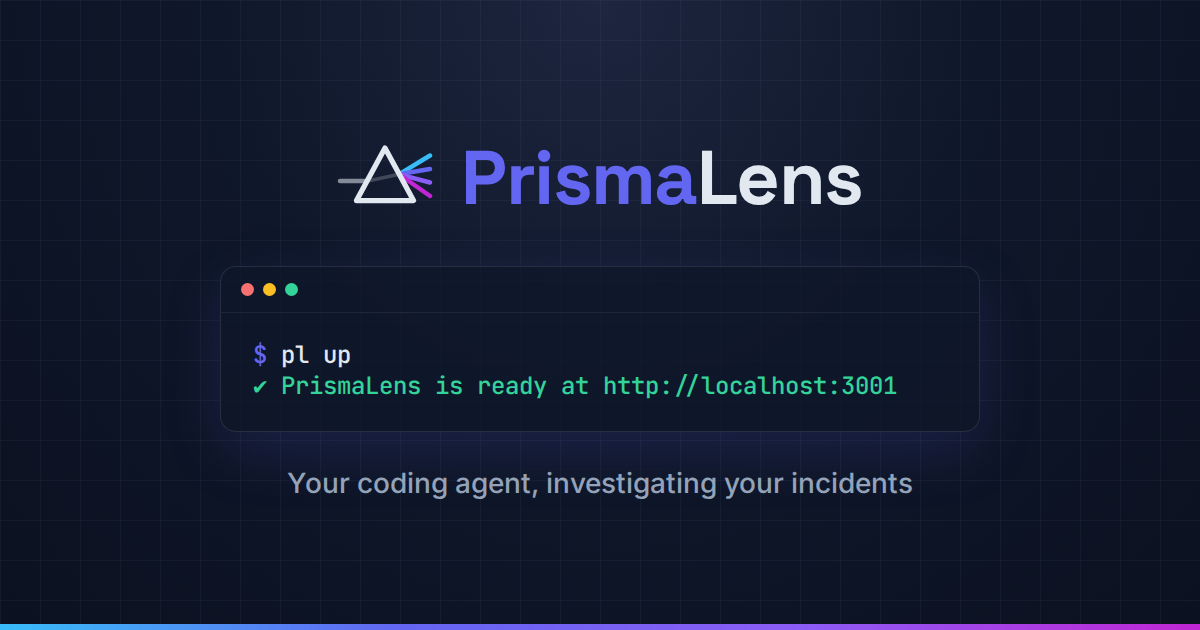
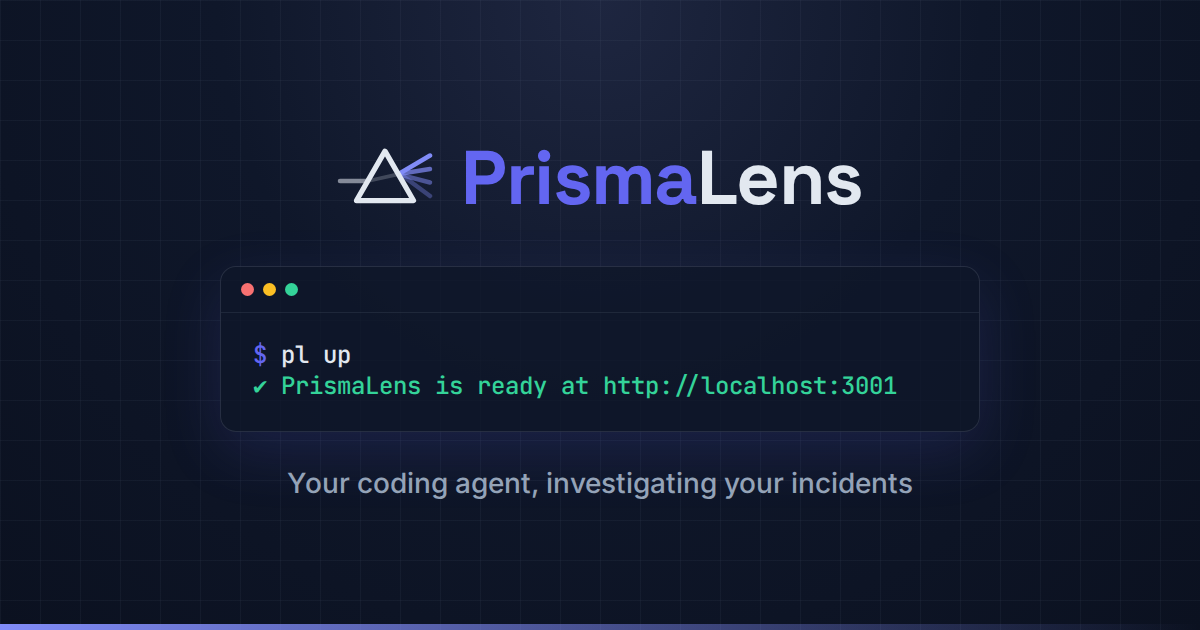
feat(brand): indigo rays that fade in order, equilateral prism, shorter evidence markers
The mark's four spectrum rays become one indigo fading 100/70/50/35%:
#4F46E5 on light, #818CF8 on dark, switched by prefers-color-scheme in the
SVGs and by the theme class/attribute inline. The triangle becomes
equilateral (side 38 on the mark, 40 on the favicon). Applied to logo*.svg,
favicon.svg/.ico, apple-touch-icon, both headers, the render sheet, the OG
card and the banners. Hero rays use the same pair; evidence markers shorten.

Claude-Session: https://claude.ai/code/session_015eqpL98itBKewdJErF8jdi

Changed region(s): [[0.0, 0.9651, 1.0, 1.0], [0.3083, 0.2413, 0.37, 0.3016]]

diff --git a/brand/sheet.html b/brand/sheet.html
@@ -9,12 +9,12 @@
 <style>
   * { margin: 0; box-sizing: border-box; }
   body { display: flex; flex-direction: column; align-items: center; justify-content: center; position: relative; overflow: hidden; font-family: Inter, sans-serif; }
-  body.dark { --ink: #E2E8F0; --muted: #94A3B8; background: radial-gradient(ellipse at 50% 0%, #1E2640 0%, #0F172A 45%, #0B1120 100%); }
-  body.light { --ink: #0F172A; --muted: #475569; background: radial-gradient(ellipse at 50% 0%, #FFFFFF 0%, #F1F5F9 60%, #E2E8F0 100%); }
+  body.dark { --ray: #818CF8; --ink: #E2E8F0; --muted: #94A3B8; background: radial-gradient(ellipse at 50% 0%, #1E2640 0%, #0F172A 45%, #0B1120 100%); }
+  body.light { --ray: #4F46E5; --ink: #0F172A; --muted: #475569; background: radial-gradient(ellipse at 50% 0%, #FFFFFF 0%, #F1F5F9 60%, #E2E8F0 100%); }
   body.og { width: 1200px; height: 630px; }
   body.banner { width: 1600px; height: 400px; }
   body.og::before { content: ''; position: absolute; inset: 0; background-image: linear-gradient(to right, rgb(148 163 184 / .06) 1px, transparent 1px), linear-gradient(to bottom, rgb(148 163 184 / .06) 1px, transparent 1px); background-size: 40px 40px; }
-  body::after { content: ''; position: absolute; left: 0; right: 0; bottom: 0; height: 6px; background: linear-gradient(to right, #38BDF8, #6366F1, #8B5CF6, #C026D3); }
+  body::after { content: ''; position: absolute; left: 0; right: 0; bottom: 0; height: 6px; background: linear-gradient(to right, var(--ray), transparent); }
   .lockup { display: flex; align-items: center; gap: 28px; position: relative; }
   .lockup svg { width: 132px; height: 132px; }
   .word { font-family: 'Space Grotesk', sans-serif; font-weight: 700; font-size: 92px; letter-spacing: -0.02em; line-height: 1; }
@@ -32,12 +32,12 @@
   <div class="lockup">
     <svg viewBox="0 0 64 64" fill="none" stroke-linecap="round">
       <path d="M2 34H20" stroke="var(--ink)" opacity=".55" stroke-width="3"/>
-      <path d="M20.6 34 41.5 29.5" stroke="var(--ink)" opacity=".22" stroke-width="2.5"/>
-      <path d="M43.5 28.3 62 17" stroke="#38BDF8" stroke-width="3"/>
-      <path d="M44 29 62 26" stroke="#6366F1" stroke-width="3"/>
-      <path d="M44 30.2 62 35" stroke="#8B5CF6" stroke-width="3"/>
-      <path d="M43.5 31 62 44" stroke="#C026D3" stroke-width="3"/>
-      <path d="M32 12 51 47H13Z" stroke="var(--ink)" stroke-width="3.5" stroke-linejoin="round"/>
+      <path d="M20.6 34 40.4 29.6" stroke="var(--ink)" opacity=".22" stroke-width="2.5"/>
+      <path d="M42.8 28.3 62 17" stroke="var(--ray)" stroke-width="3"/>
+      <path d="M43.2 29 62 26" stroke="var(--ray)" stroke-width="3" opacity=".7"/>
+      <path d="M43.9 30.2 62 35" stroke="var(--ray)" stroke-width="3" opacity=".5"/>
+      <path d="M44.4 31 62 44" stroke="var(--ray)" stroke-width="3" opacity=".35"/>
+      <path d="M32 14.1 51 47H13Z" stroke="var(--ink)" stroke-width="3.5" stroke-linejoin="round"/>
     </svg>
     <div class="word"><span>Prisma</span><span>Lens</span></div>
   </div>

diff --git a/brand/README.md b/brand/README.md
@@ -1,7 +1,7 @@
 # PrismaLens brand assets
 
 Canonical home of the PrismaLens identity — the **refraction mark**: one mixed beam
-enters the prism, ordered spectrum bands leave it. That is the product's own
+enters the prism, ordered bands leave it, fading in rank. That is the product's own
 epistemics (an incident in, ordered evidence out) drawn as physics.
 
 ## Palette
@@ -11,7 +11,7 @@ epistemics (an incident in, ordered evidence out) drawn as physics.
 | Ink dark | `#0F172A` | mark/wordmark on light backgrounds |
 | Ink light | `#E2E8F0` | mark/wordmark on dark backgrounds |
 | Indigo | `#6366F1` | primary accent, "Prisma" in the wordmark |
-| Spectrum | `#38BDF8 → #6366F1 → #8B5CF6 → #C026D3` | the four refracted rays, gradient rules |
+| Ray indigo | `#4F46E5` on light, `#818CF8` on dark, at 100 / 70 / 50 / 35% opacity | the refracted rays, in order; the favicon's three use 100 / 70 / 45% |
 | Found-it green | `#34D399` | terminal "root cause identified" moments only |
 | Deep space | `#0F172A` / `#0B1120` | icon chips, dark canvases |
 
